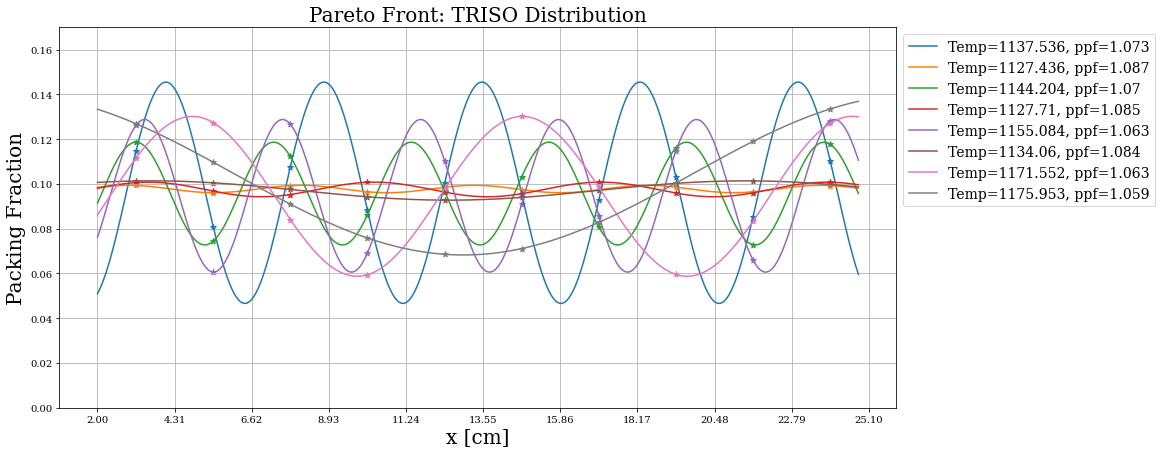
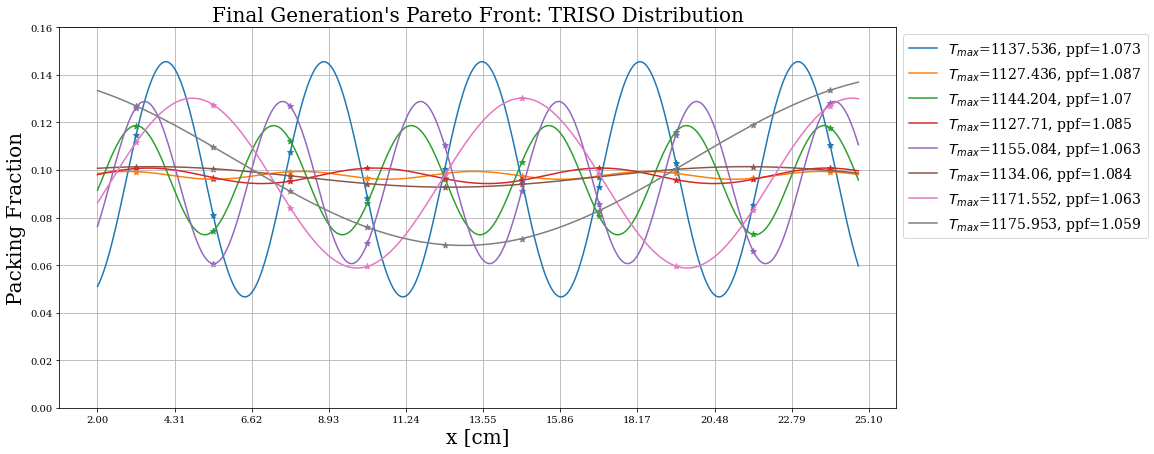
writing

diff --git a/docs/ahtr_rollo_slab.tex b/docs/ahtr_rollo_slab.tex
@@ -424,9 +424,9 @@ Table \ref{tab:simulationp2a} shows simulation p-2a's optimization problem param
     \end{tabular}
 \end{table}
 Figure \ref{fig:slab-obj-2-pftemp-pareto} shows a plot of the final generation's reactor models' 
-total packing fraction against normalized power peaking factor, red crosses mark the reactor 
+total packing fraction against maximum slab temperature, red crosses mark the reactor 
 models that fall on the pareto front.
-Figure \ref{fig:slab-obj-2-pftemp-pareto-distr} shows the four TRISO particle distributions in 
+Figure \ref{fig:slab-obj-2-pftemp-pareto-distr} shows the six TRISO particle distributions in 
 the final generation that fall on the pareto front. 
 \begin{figure}[htbp]
     \centering
@@ -447,7 +447,12 @@ the final generation that fall on the pareto front.
     TRISO particle distribution.}
     \label{fig:slab-obj-2-pftemp}
 \end{figure}
-
+In Figure \ref{fig:slab-obj-2-pftemp-pareto-distr}, the TRISO distribution with the lowest 
+total packing fraction and highest maximum slab temperature (the blue distribution) has 
+an up-down fuel packing pattern, similar to ... 
+In Figure \ref{fig:slab-obj-2-pftemp-pareto-distr}, the TRISO particle distribution with the 
+lowest maximum slab temperature and highest total packing fraction (the purple distribution)
+has an almost constant packing fraction of $\sim0.032$ across the slab. 
 
 \subsection{p-2b: Minimize Total Packing Fraction and Normalized Power Peaking Factor}
 Table \ref{tab:simulationp2b} shows simulation p-2b's optimization problem parameters. 
@@ -523,19 +528,46 @@ Table \ref{tab:simulationp2c} shows simulation p-2c's optimization problem param
     \textbf{Objectives} & Minimize $T_{max}$ \\
     & Minimize PPF \\
     \hline 
-    \textbf{Input Parameter variations} & $0.02<PF<0.04$ \\
-    & $0<a<2$ \\
+    \textbf{Input Parameter variations} & $0<a<2$ \\
     & $0<b<\frac{\pi}{2}$ \\
     & $0<c<2\pi$ \\
     \hline
-    \textbf{Constraints} & $k_{eff} > 1.35$\\ 
+    \textbf{Constraints} & $k_{eff} > 1.0$\\ 
     \hline 
-    \textbf{Genetic Algorithm Parameters} & Population size: 64 \\
-    & Generations: 5 \\
+    \textbf{Genetic Algorithm Parameters} & Population size: 120 \\
+    & Generations: 4 \\
     \hline
     \end{tabular}
 \end{table}
-
+Figure \ref{fig:slab-obj-2-tempppf-pareto} shows a plot of the final generation's reactor models' 
+maximum plank temperature against normalized power peaking factor, red crosses mark the reactor 
+models that fall on the pareto front.
+Figure \ref{fig:slab-obj-2-tempppf-pareto-distr} shows the eight TRISO particle distributions in 
+the final generation that fall on the pareto front. 
+\begin{figure}[htbp]
+    \centering
+    \begin{subfigure}{\textwidth}
+        \includegraphics[width=\linewidth]{slab-obj-2-tempppf-pareto.png}
+        \caption{Plot of final generation's reactor models' maximum plank temperature against normalized 
+        power peaking factor. Red crosses indicate the reactor models on the pareto front. }
+        \label{fig:slab-obj-2-tempppf-pareto} 
+    \end{subfigure}
+    \begin{subfigure}{\textwidth}
+        \includegraphics[width=\linewidth]{slab-obj-2-tempppf-pareto-distr.png}
+        \caption{TRISO particle distribution for the 8 reactor models on the pareto front.}
+        \label{fig:slab-obj-2-tempppf-pareto-distr} 
+    \end{subfigure}
+    \caption{ROLLO two-objective optimization to minimize maximum slab temperature $T_{max}$ and normalized power 
+    peaking factor (PPF) in the plank. Input parameters varied: TRISO particle distribution.}
+    \label{fig:slab-obj-2-tempppf}
+\end{figure}
+In Figure \ref{fig:slab-obj-2-tempppf-pareto-distr}, the TRISO particle distribution with 
+the lowest maximum temperature and highest normalized power peaking factor (the orange 
+distribution) ... 
+In Figure \ref{fig:slab-obj-2-tempppf-pareto-distr}, the TRISO particle distribution with 
+the highest maximum temperature and lowest normalized power peaking factor (the grey 
+distribution) peaks near the sides of the plank, and has a minimum point at the center
+of the plank. 
 
 \section{AHTR Plank: Three-Objective Optimization Results}
 
